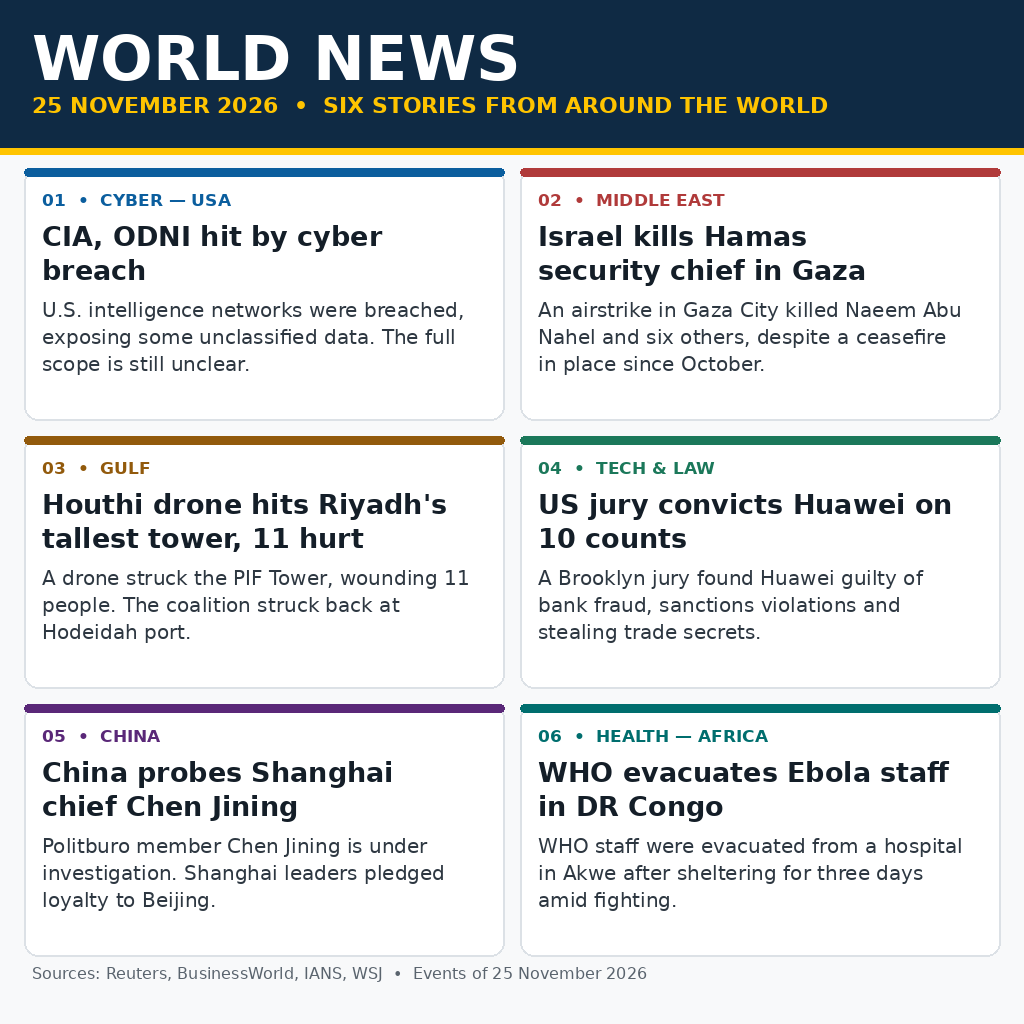
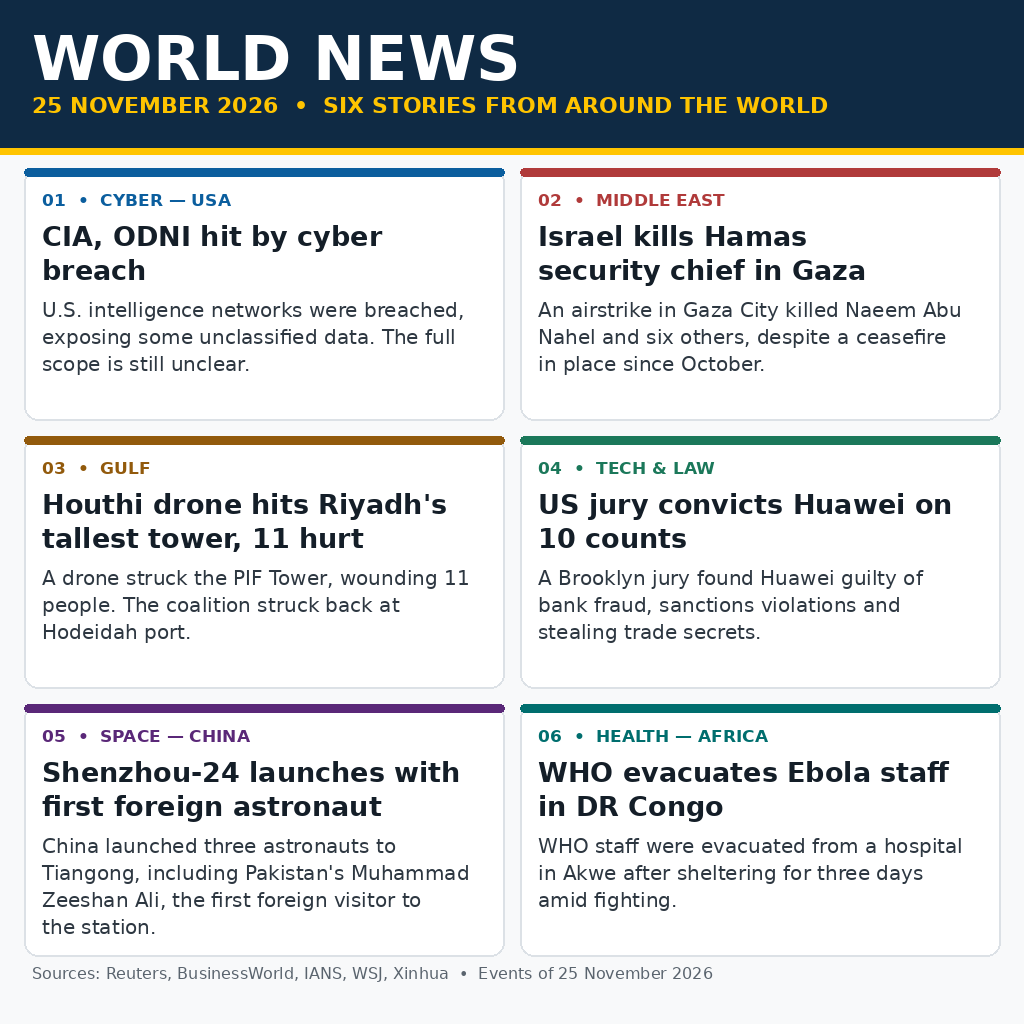
Update entry to v2: Shenzhou-24 replaces Shanghai panel

Changed region(s): [[0.0312, 0.6875, 0.4688, 0.9375], [0.375, 0.9375, 0.6875, 0.9688]]

diff --git a/README.md b/README.md
@@ -11,10 +11,10 @@ Entry for the make.fun bounty `news-image-20261125`.
 2. **Israel kills Hamas security chief in Gaza** (Middle East) — An airstrike in Gaza City killed Naeem Abu Nahel and six others, despite a ceasefire in place since October.
 3. **Houthi drone hits Riyadh's tallest tower, 11 hurt** (Gulf) — A drone struck the PIF Tower, wounding 11 people. The coalition struck back at Hodeidah port.
 4. **US jury convicts Huawei on 10 counts** (Tech & Law) — A Brooklyn jury found Huawei guilty of bank fraud, sanctions violations and stealing trade secrets.
-5. **China probes Shanghai chief Chen Jining** (China) — Politburo member Chen Jining is under investigation. Shanghai leaders pledged loyalty to Beijing.
+5. **Shenzhou-24 launches with first foreign astronaut** (Space / China) — China launched three astronauts to Tiangong, including Pakistan's Muhammad Zeeshan Ali, the first foreign visitor to the station.
 6. **WHO evacuates Ebola staff in DR Congo** (Health / Africa) — WHO staff were evacuated from a hospital in Akwe after sheltering for three days amid fighting.
 
-Sources: Reuters, BusinessWorld, IANS, WSJ. Events of 25 November 2026.
+Sources: Reuters, BusinessWorld, IANS, WSJ, Xinhua. Events of 25 November 2026.
 
 ## How it runs
 
